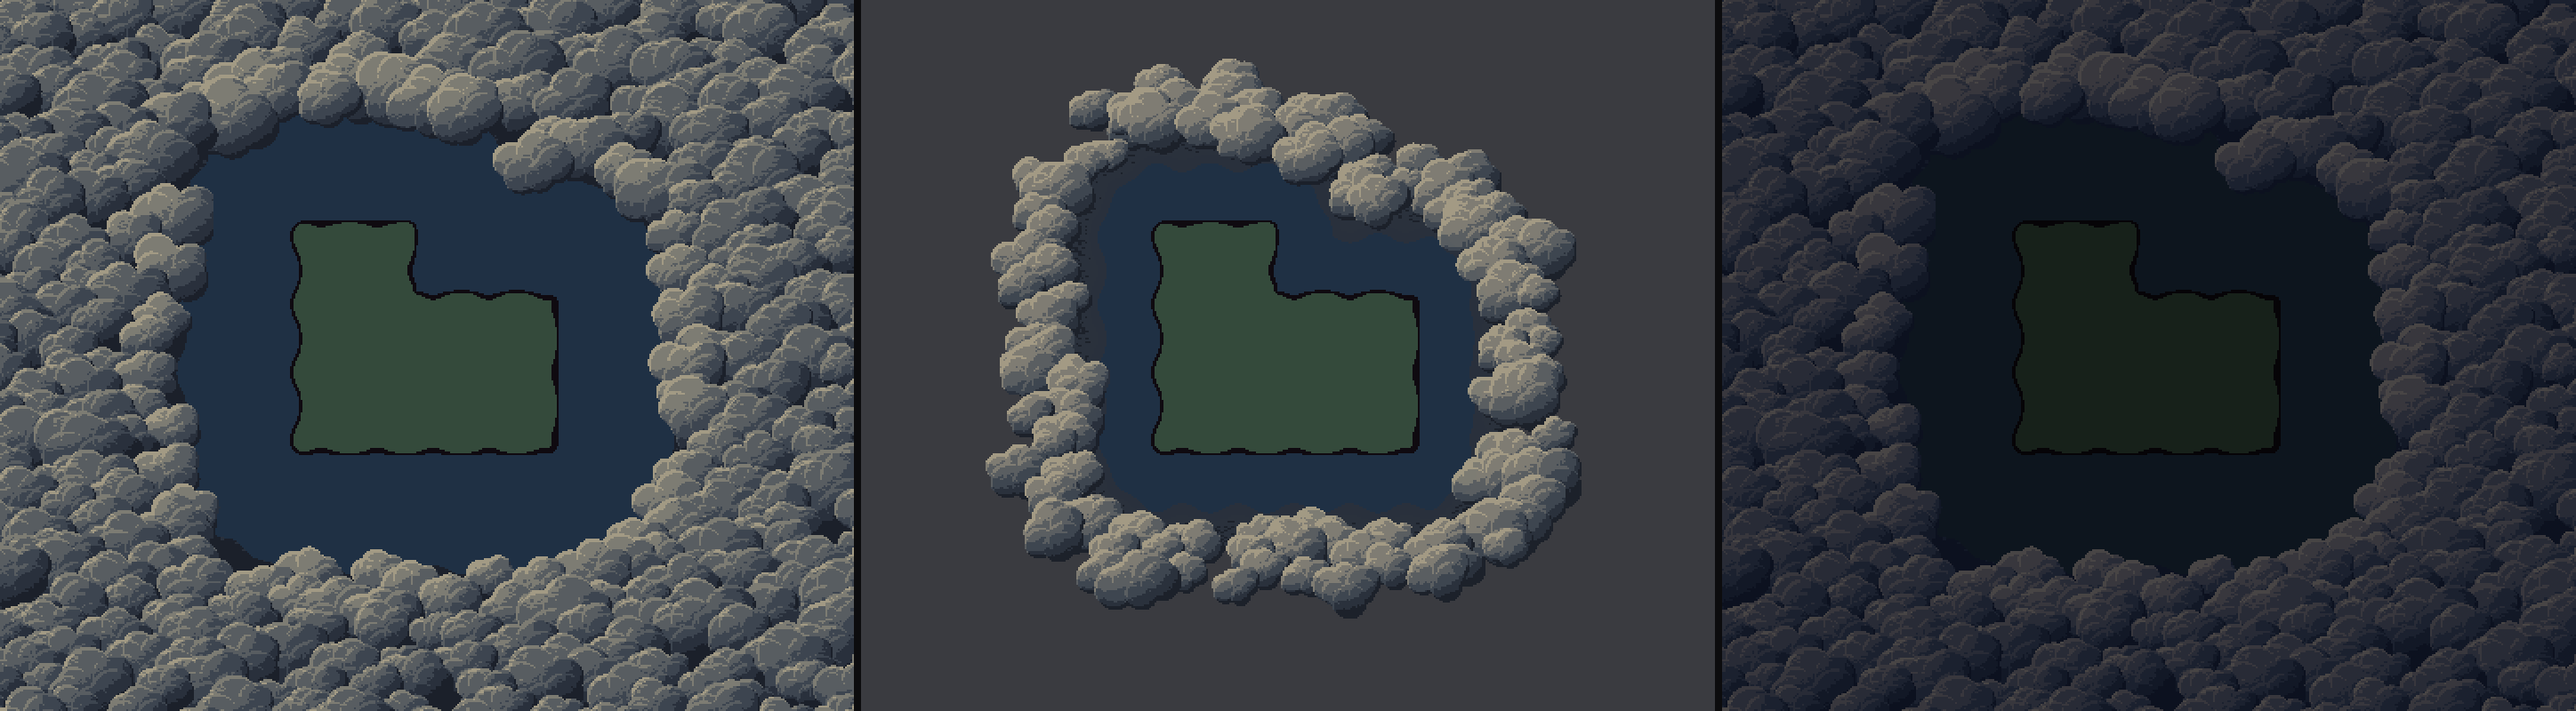
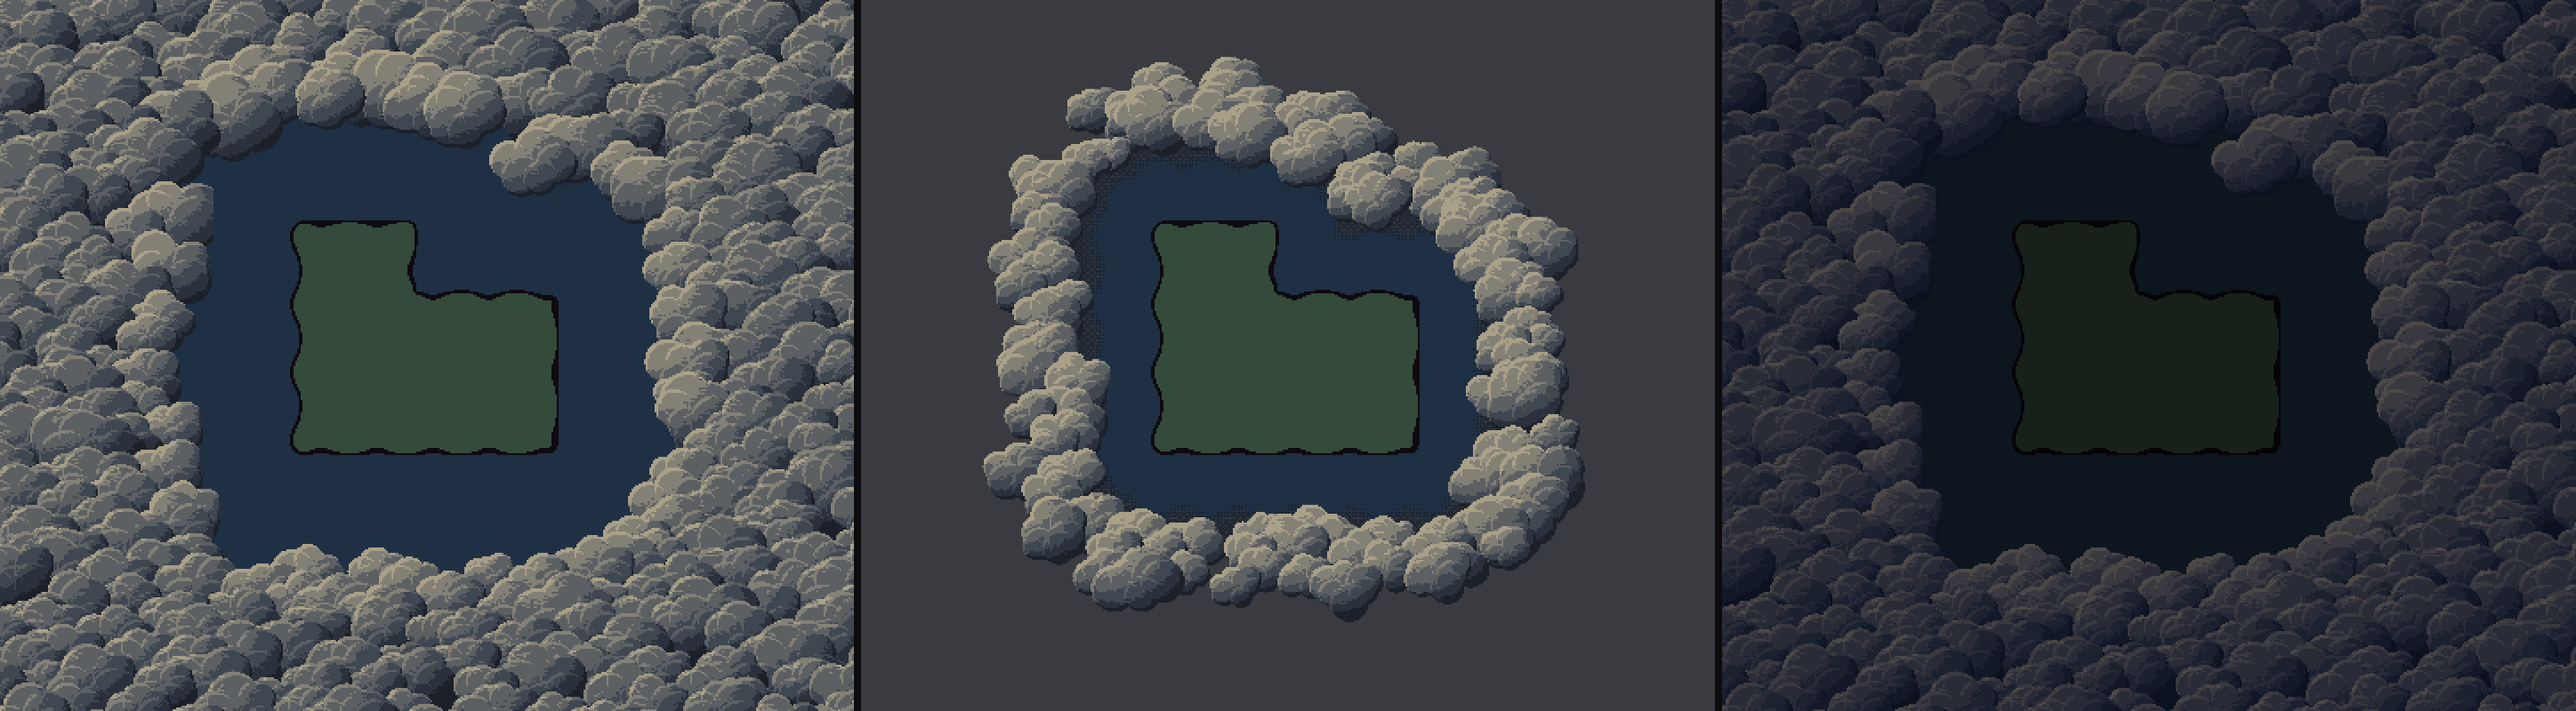
Mgła kryje w pełni, podstawa pod chmurami schowana za pierwszym rzędem kłębów

diff --git a/tools/pixel-proto/fog_clouds_preview.py b/tools/pixel-proto/fog_clouds_preview.py
@@ -19,13 +19,16 @@ W, H = 240, 200                         # kadr w pikselach danych (16 px)
 TONES = np.array([[0x1b, 0x20, 0x29], [0x2a, 0x31, 0x3c], [0x3f, 0x47, 0x51], [0x5c, 0x60, 0x63],
                   [0x83, 0x80, 0x76], [0xa9, 0xa0, 0x88]], float)
 CELL = 30.0                             # komórka siatki chmur (piksele mgły)
-RC = (14.0, 10.0)                       # promień bryły chmury: min, rozrzut
+RC = (15.5, 10.0)                       # promień bryły chmury: min, rozrzut
 NB = 6                                  # guzki na obwodzie bryły
 RIM = 2.5                               # szerokość rąbka (piksele mgły)
 LIGHT = np.array([-0.55, -0.75, 0.45]); LIGHT /= np.linalg.norm(LIGHT)   # y w dół: z lewej-góry, trochę od widza
 BAND_SCALE = 0.8                        # przezroczyste okno: trochę mniejsze chmury (mieszczą się w 34 px)
 CAP = 2.0                               # łuki guzków w środku bryły (piksele mgły)
 TONE_MID, TONE_SPAN, RIM_TONE, CAP_TONE, DEPTH, DEPTH_TONES, JIT, BASE_TONE = 2.9, 2.6, 1.1, 0.6, 30.0, 1.5, 0.35, 1.2
+
+
+BAYER = np.array([0, 8, 2, 10, 12, 4, 14, 6, 3, 11, 1, 9, 15, 7, 13, 5], float).reshape(4, 4) / 16.0
 
 
 def hash4(x, y):
@@ -118,12 +121,16 @@ def fog(mode, edge, T, dist=None, w=W, h=H, s=S):
             rim = np.where(inside, np.where(lit_edge, 1.0, np.where(dark_edge, -1.0, np.where(caps, CAP_TONE, 0.0))), rim)
             depth = np.where(inside, np.clip((dc - edge) / DEPTH, 0, 1), depth)
     has = best_y > -1e8
-    base = (d > edge + 10.0) if not band else ((d > edge - 3.0) & (d < edge + 9.0))
+    # podstawa pod chmurami: za pierwszym rzędem chmur, wchodzi ditheringiem Bayera (przy brzegu między kłębami woda)
+    th = BAYER[yy.astype(int) & 3, xx.astype(int) & 3]
+    base_a = (np.clip((d - (edge - 3.0)) / 4.0, 0, 1) * np.clip((edge + 12.0 - d) / 4.0, 0, 1) if band
+              else np.clip((d - (edge + 16.0)) / 12.0, 0, 1))
+    base = th < base_a - 0.01
     jit = hash4(np.floor(xx / 2.0) + 3.0, yy + 11.0)[..., 0] - 0.5
     t = TONE_MID + big * TONE_SPAN + rim * RIM_TONE - depth * DEPTH_TONES + jit * JIT
-    t = np.where(has, t, BASE_TONE - np.clip((d - edge) / 30.0, 0, 1) + jit * JIT)
+    t = np.where(has, t, BASE_TONE - np.clip((d - edge) / 30.0, 0, 1) + (th - 0.5))   # podstawa: gładko, ditheringiem
     idx = np.clip(np.floor(t), 0, 5).astype(int)
-    a = np.where(has | base, 0.95, 0.0)
+    a = np.where(has | base, 1.0, 0.0)                         # pełne krycie
     if band:
         a = np.where(d < edge + 34.0, a, 0.0)   # twardy limit zasięgu w przezroczystym oknie
     a = np.where(d > 0, a, 0.0)

diff --git a/docs/GDD.md b/docs/GDD.md
@@ -897,6 +897,9 @@ Obrazki referencyjne (kopie): `docs/img/`
     które wszedł ląd, odpływają gdzie indziej. **Wysepki** (§13.10): 2-4 odcięte skrawki po 3-4 kafelki na świat,
     wyłaniają się z mgły, gdy ląd podejdzie na 4 kafelki; kafelek kupiony tuż obok (także po skosie) przyłącza wysepkę
     za darmo z dekoracjami i znaleziskami.
+106. **Mgła bardziej kryje** (zrzut gracza: „widać to, co jest pod chmurami, tę szarość”). Chmury kryją w pełni (było 95%),
+    są trochę większe (mniej szczelin), a płaska ciemna podstawa pod chmurami zaczyna się dopiero za pierwszym rzędem
+    kłębów i wchodzi ditheringiem (przy brzegu między kłębami widać wodę, nie szarą płaszczyznę); tony podstawy bez szumu.
 
 ---
 
